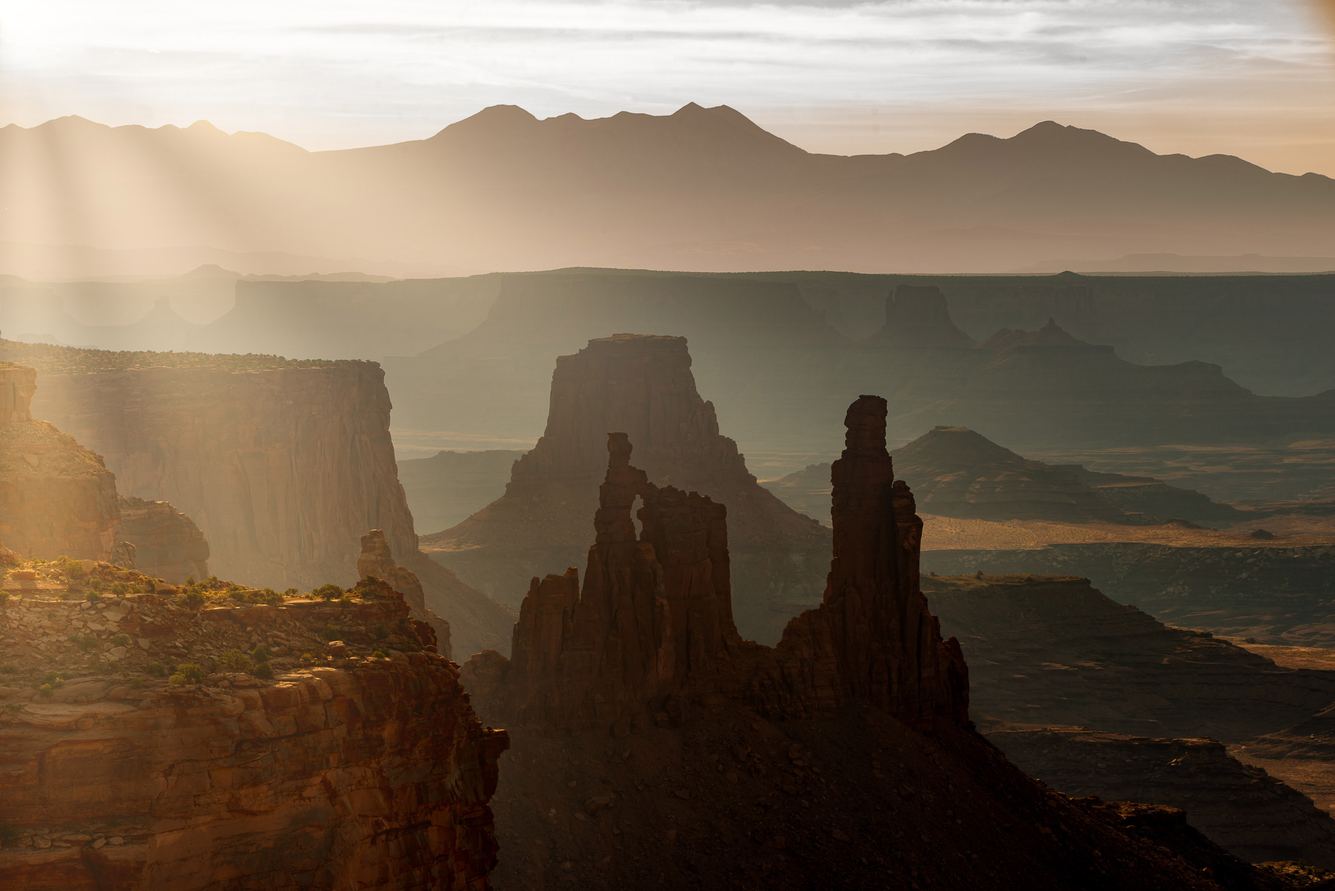
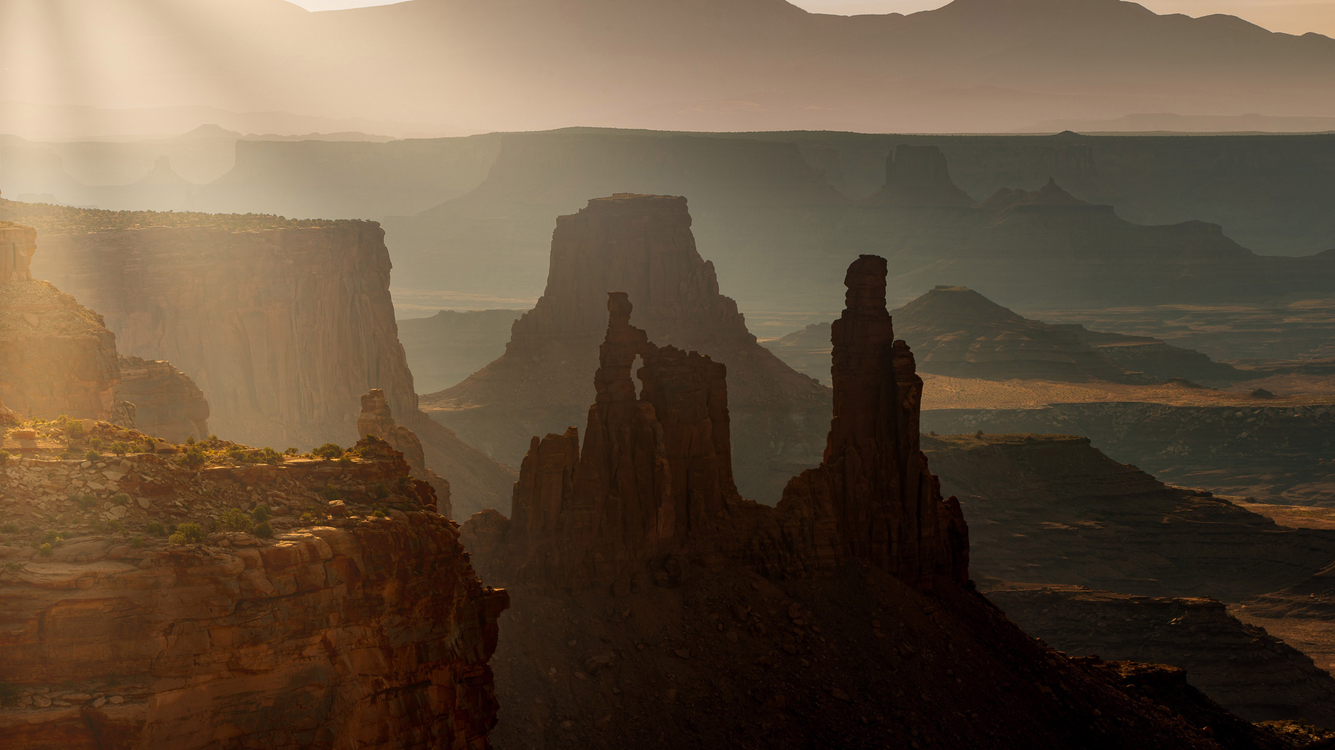
fixed hover bug and reformatted rockClimb hero image

diff --git a/src/style/experiences.scss b/src/style/experiences.scss
@@ -21,6 +21,7 @@
 
 .horizontal-scroll::-webkit-scrollbar {
   display: none;
+
 }
 
 .experienceCard {
@@ -32,6 +33,7 @@
 
   font-size: 20px;
   transition: all 0.3s ease-in-out;
+
 }
 
 .card-content {
@@ -41,6 +43,7 @@
   img {
     width: 100%;
     height: 100%;
+    z-index: -1;
   }
 }
 
@@ -85,7 +88,7 @@
   color: rgb(46, 46, 46);
 }
 
-.card:hover {
+.experienceCard:hover {
   transform: scale(1.1);
   z-index: 1;
 }
